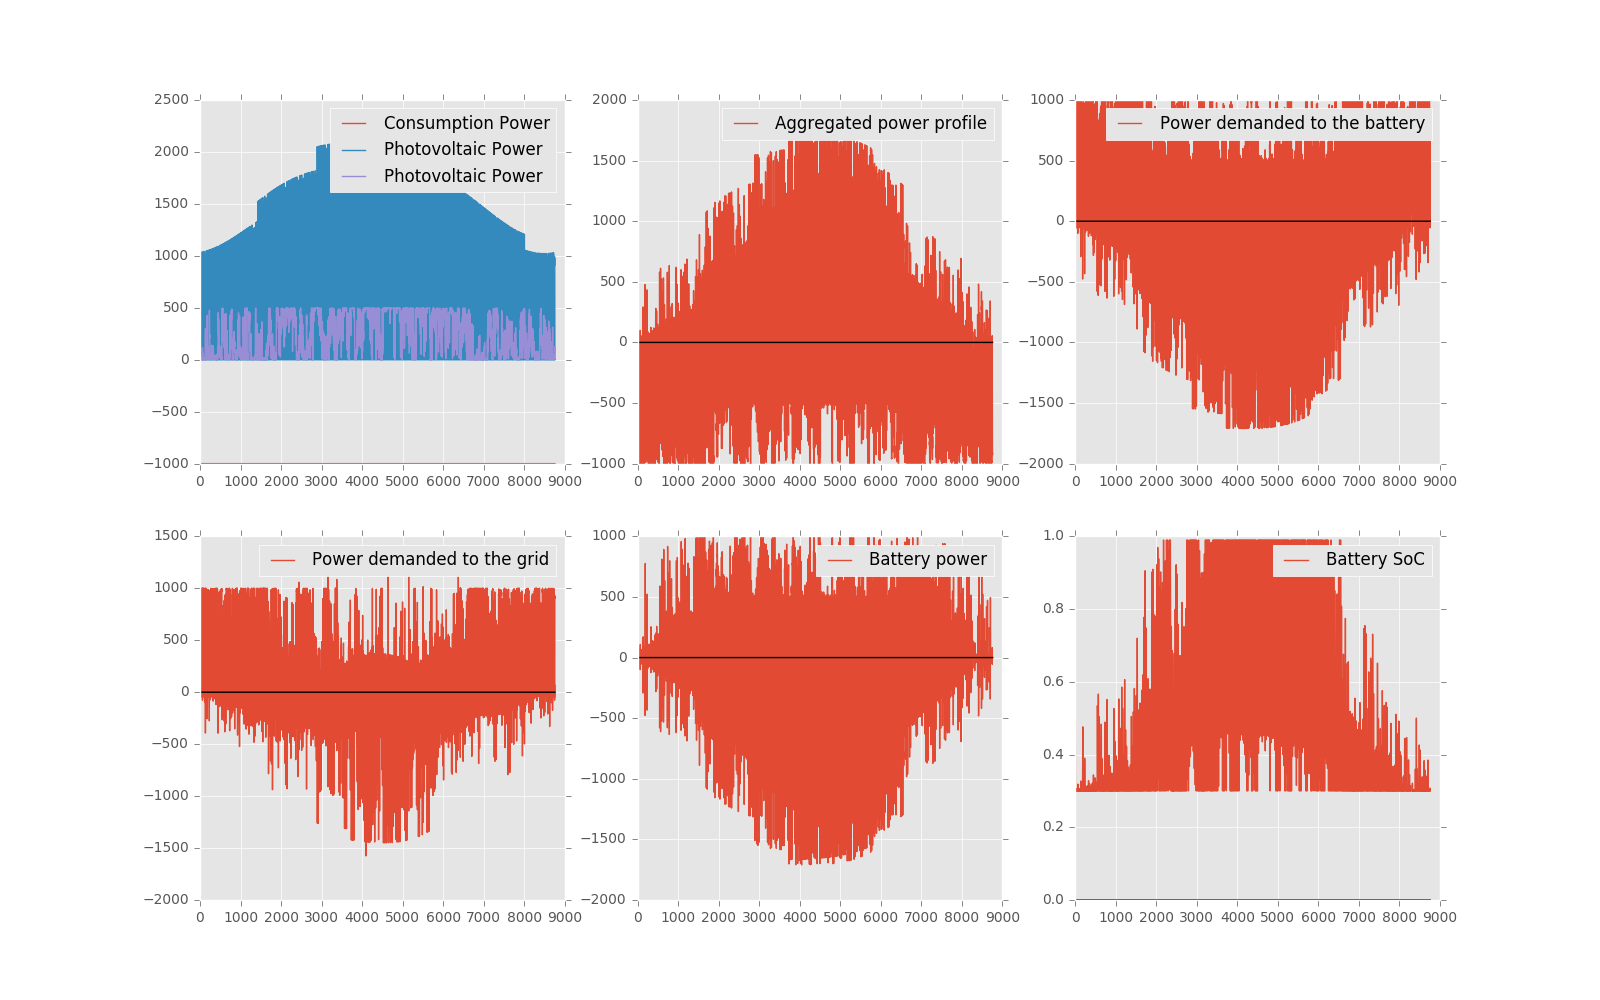
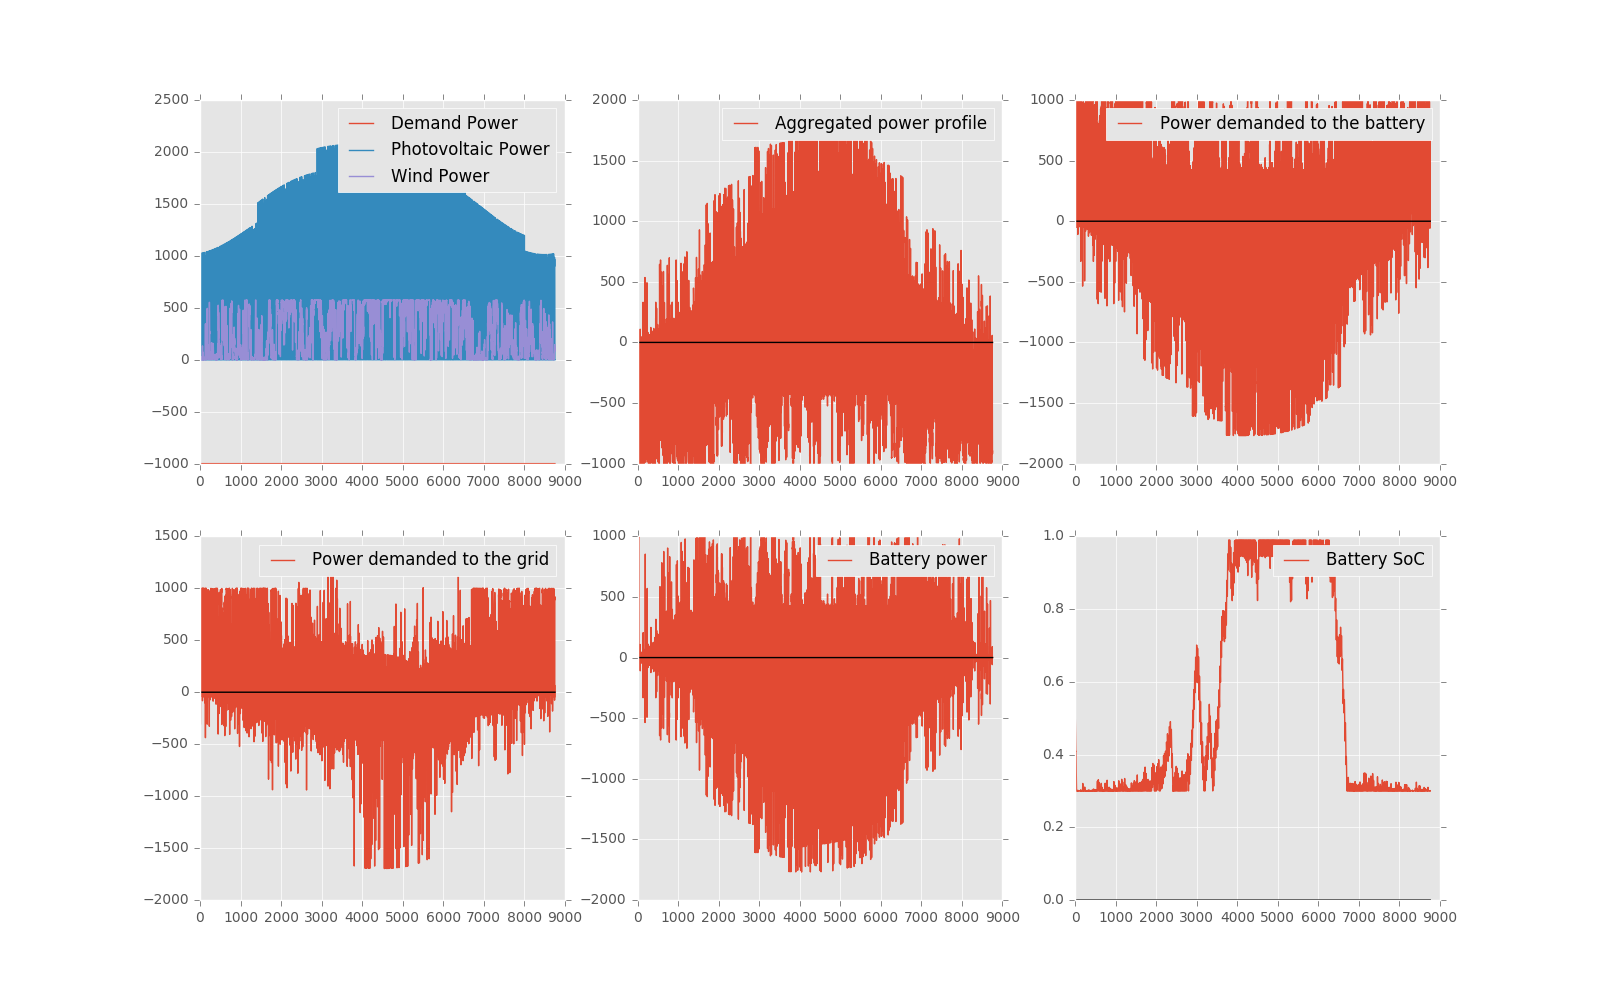
Updated pictures Refactored code

diff --git a/code/microgrid_dispatch.py b/code/microgrid_dispatch.py
@@ -178,6 +178,8 @@ class MicroGrid:
         self.battery_losses = None
         self.battery_state_of_charge = None
 
+        self.optimization_values = None
+
     def __call__(self, x):
         return self.objfunction(x)
 
@@ -257,28 +259,6 @@ class MicroGrid:
 
         return sum(abs(self.grid_power))
 
-    # @staticmethod
-    # def eval_eq_constraints(x):
-    #     """
-    #     The equality constraint is that the summation of x must be 1
-    #     :param x:
-    #     :return:
-    #     """
-    #     return np.sum(x)
-    #
-    # @staticmethod
-    # def projection(x):
-    #     """
-    #     Function that brings unfeasible points into the feasible region
-    #     In this case this is mandatory because we have an equality constraint and all the
-    #     generated points that do not satisfy the constraint must be 'made' to satisfy it.
-    #     In this case if we normalize the vector x (x_nex = x / sum(x), it is sufficient to
-    #     fulfill that sum(x_nex) = 1
-    #     :param x:
-    #     :return:
-    #     """
-    #     return x / np.sum(x)
-
     def plot(self):
         # plot results
         plot_cols = 3
@@ -288,9 +268,9 @@ class MicroGrid:
 
         plt.figure(figsize=(16, 10))
         plt.subplot(plot_rows, plot_cols, 1)
-        plt.plot(self.demand_profile, label="Consumption Power")
+        plt.plot(self.demand_profile, label="Demand Power")
         plt.plot(self.solar_power_profile, label="Photovoltaic Power")
-        plt.plot(self.wind_power_profile, label="Photovoltaic Power")
+        plt.plot(self.wind_power_profile, label="Wind Power")
         plt.legend()
 
         plt.subplot(plot_rows, plot_cols, 2)
@@ -318,75 +298,84 @@ class MicroGrid:
         plt.plot(np.zeros(steps_number), 'k')
         plt.legend()
 
+    def optimize(self):
+        """
+        Function that optimizes a MicroGrid Object
+        Args:
 
-def optimize(data: MicroGrid):
-    """
-    Function that optimizes a MicroGrid Object
-    Args:
-        data: MicroGrid instance
+        Returns:
 
-    Returns:
+        """
+        # Decide how many evaluations we are allowed to use
+        maxeval = 1000
 
-    """
-    # Decide how many evaluations we are allowed to use
-    maxeval = 1000
+        # (1) Optimization problem
+        # print(data.info)
 
-    # (1) Optimization problem
-    # print(data.info)
+        # (2) Experimental design
+        # Use a symmetric Latin hypercube with 2d + 1 samples
+        exp_des = SymmetricLatinHypercube(dim=self.dim, npts=2 * self.dim + 1)
 
-    # (2) Experimental design
-    # Use a symmetric Latin hypercube with 2d + 1 samples
-    exp_des = SymmetricLatinHypercube(dim=data.dim, npts=2 * data.dim + 1)
+        # (3) Surrogate model
+        # Use a cubic RBF interpolant with a linear tail
+        surrogate = RBFInterpolant(kernel=CubicKernel, tail=LinearTail, maxp=maxeval)
 
-    # (3) Surrogate model
-    # Use a cubic RBF interpolant with a linear tail
-    surrogate = RBFInterpolant(kernel=CubicKernel, tail=LinearTail, maxp=maxeval)
+        # (4) Adaptive sampling
+        # Use DYCORS with 100d candidate points
+        adapt_samp = CandidateDYCORS(data=self, numcand=100 * self.dim)
 
-    # (4) Adaptive sampling
-    # Use DYCORS with 100d candidate points
-    adapt_samp = CandidateDYCORS(data=data, numcand=100 * data.dim)
+        # Use the serial controller (uses only one thread)
+        controller = SerialController(self.objfunction)
 
-    # Use the serial controller (uses only one thread)
-    controller = SerialController(data.objfunction)
+        # (5) Use the sychronous strategy without non-bound constraints
+        strategy = SyncStrategyNoConstraints(
+            worker_id=0, data=self, maxeval=maxeval, nsamples=1,
+            exp_design=exp_des, response_surface=surrogate,
+            sampling_method=adapt_samp)
+        controller.strategy = strategy
 
-    # (5) Use the sychronous strategy without non-bound constraints
-    strategy = SyncStrategyNoConstraints(
-        worker_id=0, data=data, maxeval=maxeval, nsamples=1,
-        exp_design=exp_des, response_surface=surrogate,
-        sampling_method=adapt_samp)
-    controller.strategy = strategy
+        # Run the optimization strategy
+        result = controller.run()
 
-    # Run the optimization strategy
-    result = controller.run()
+        # Print the final result
+        print('Best value found: {0}'.format(result.value))
+        print('Best solution found: {0}'.format(
+            np.array_str(result.params[0], max_line_width=np.inf,
+                         precision=5, suppress_small=True)))
 
-    # Print the final result
-    print('Best value found: {0}'.format(result.value))
-    print('Best solution found: {0}'.format(
-        np.array_str(result.params[0], max_line_width=np.inf,
-                     precision=5, suppress_small=True)))
+        # Extract function values from the controller
+        self.optimization_values = np.array([o.value for o in controller.fevals])
 
-    # Extract function values from the controller
-    fvals = np.array([o.value for o in controller.fevals])
+        return result.params[0]
 
-    f, ax = plt.subplots()
-    ax.plot(np.arange(0, maxeval), fvals, 'bo')  # Points
-    ax.plot(np.arange(0, maxeval), np.minimum.accumulate(fvals), 'r-', linewidth=4.0)  # Best value found
-    plt.xlabel('Evaluations')
-    plt.ylabel('Function Value')
-    plt.title(data.info)
-    # plt.show()
+    def plot_optimization(self):
+        """
+        Plot the optimization convergence
+        Returns:
 
-    return result.params[0]
+        """
+        if self.optimization_values is not None:
+            maxeval = len(self.optimization_values)
+            f, ax = plt.subplots()
+            ax.plot(np.arange(0, maxeval), self.optimization_values, 'bo')  # Points
+            ax.plot(np.arange(0, maxeval), np.minimum.accumulate(self.optimization_values), 'r-',
+                    linewidth=3.0)  # Best value found
+            plt.xlabel('Evaluations')
+            plt.ylabel('Function Value')
+            plt.title('Optimization convergence')
 
 if __name__ == '__main__':
 
     micro_grid = MicroGrid(fname='data.xls', start=datetime(2016, 1, 1), desalination_noinal_power=1000)
 
-    res_x = optimize(micro_grid)
+    res_x = micro_grid.optimize()
 
     res = micro_grid(res_x)
 
     micro_grid.plot()
+
+    micro_grid.plot_optimization()
+
     plt.show()
 
     # print(res)
